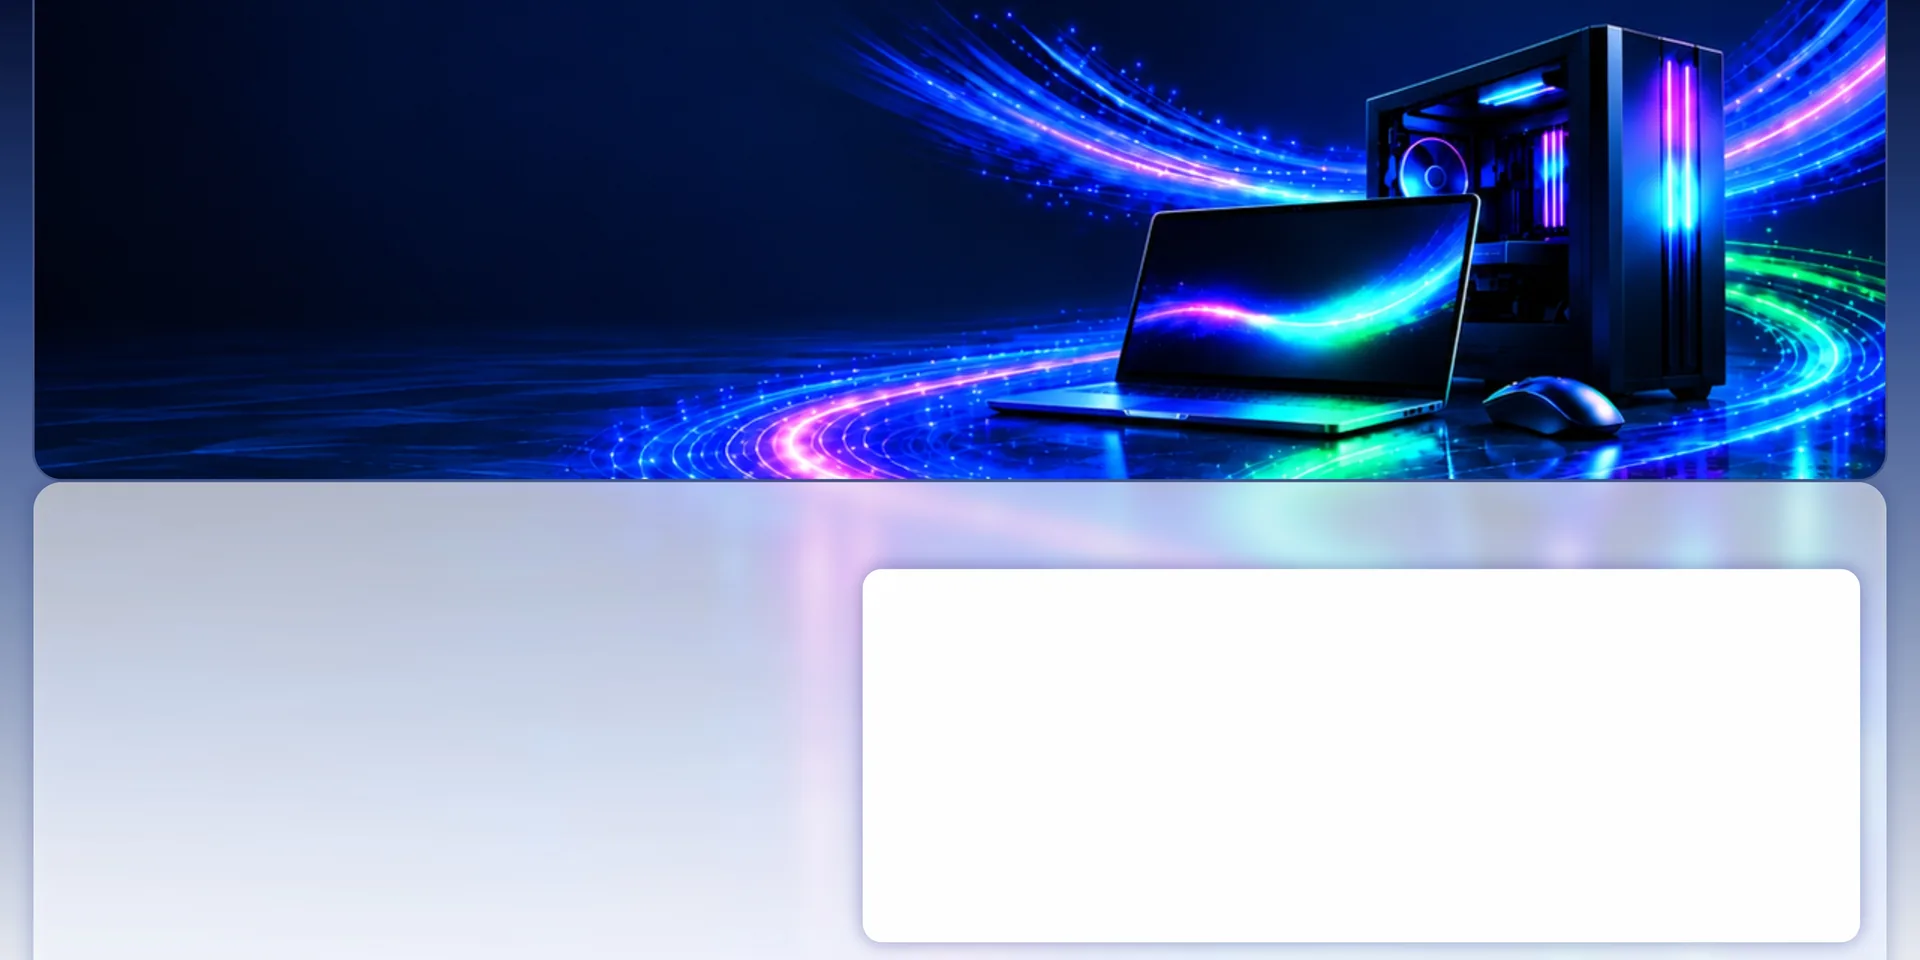
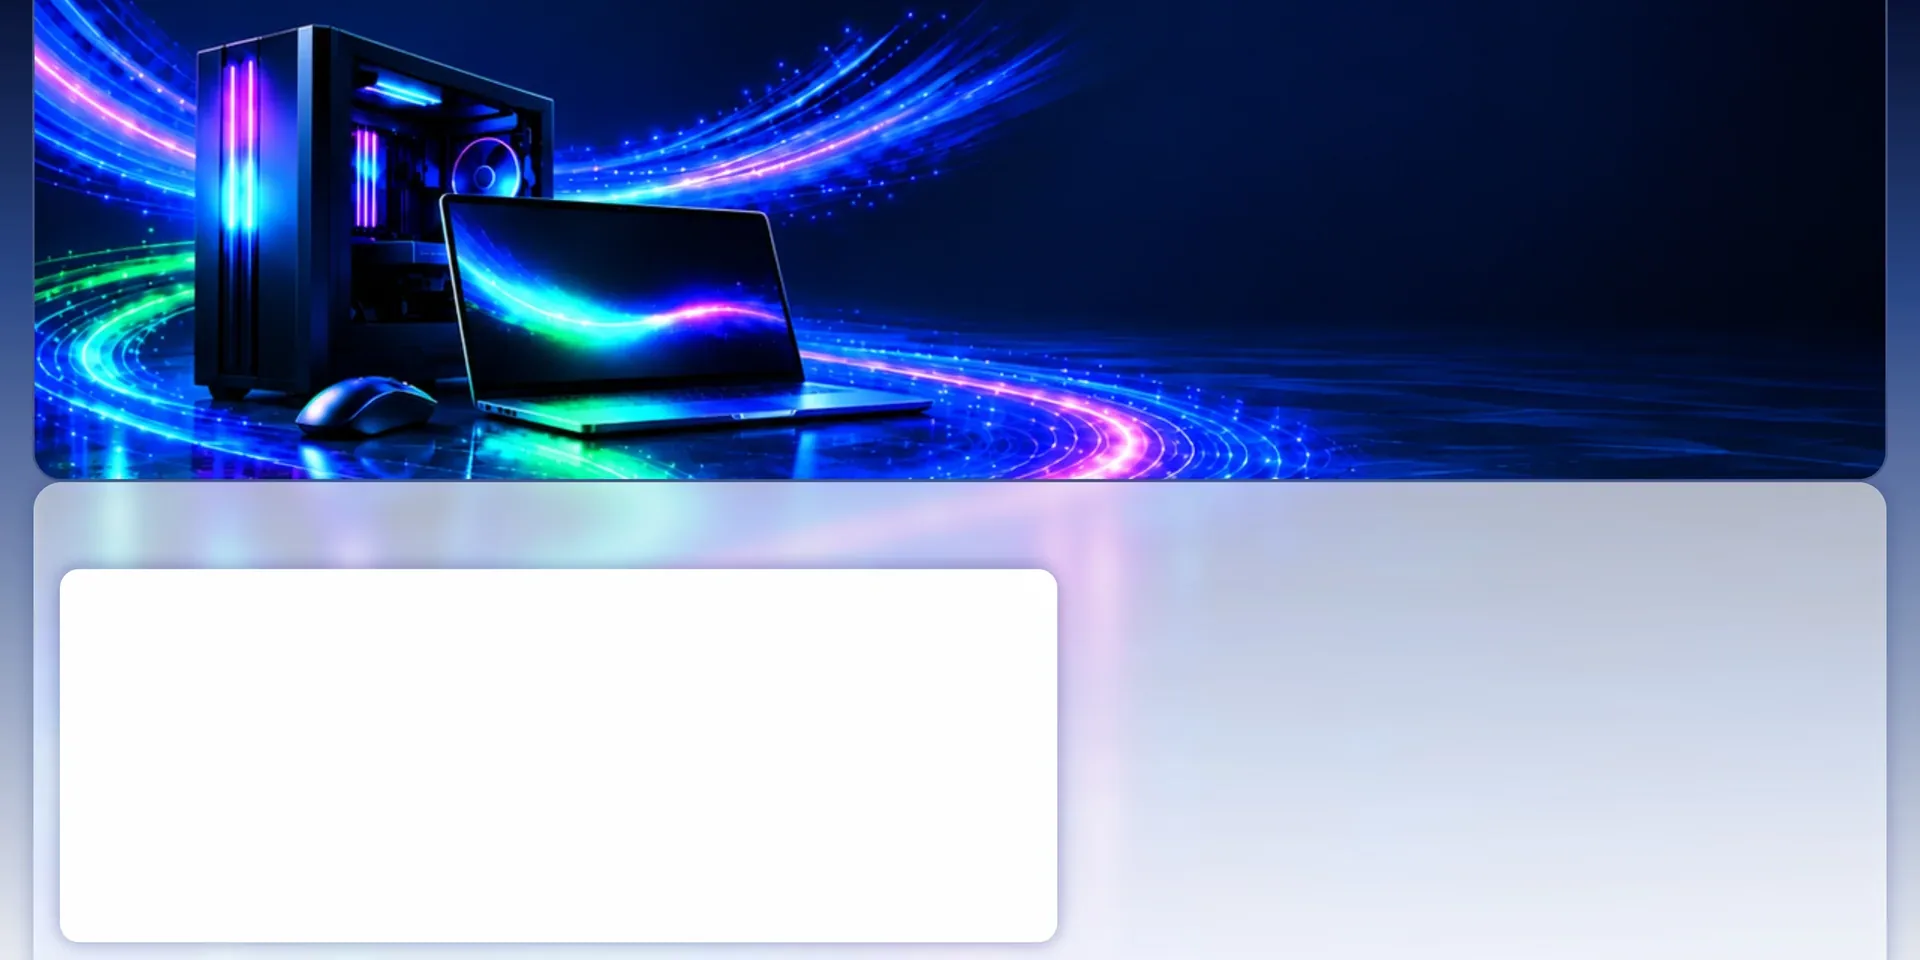
Mirror the itmalek.com landing background horizontally
Flip landing-bg.webp left-to-right so the devices sit on the left and
the lighter content area on the right.

diff --git a/pages/footer.php b/pages/footer.php
@@ -107,8 +107,8 @@ require_once '../includes/version.php';
         <span>در شرکت</span>
         <span class="company">آوای شرق ملک</span>
         <span> | </span>
-        <span class="footer-version" title="آخرین بهروزرسانی: ۱۴۰۵/۰۷/۲۲ - ۱۰:۰۰">
-            نسخه: ۸.۷۹
+        <span class="footer-version" title="آخرین بهروزرسانی: ۱۴۰۵/۰۷/۲۲ - ۱۰:۰۳">
+            نسخه: ۸.۸۰
         </span>
     </div>
 </div>
